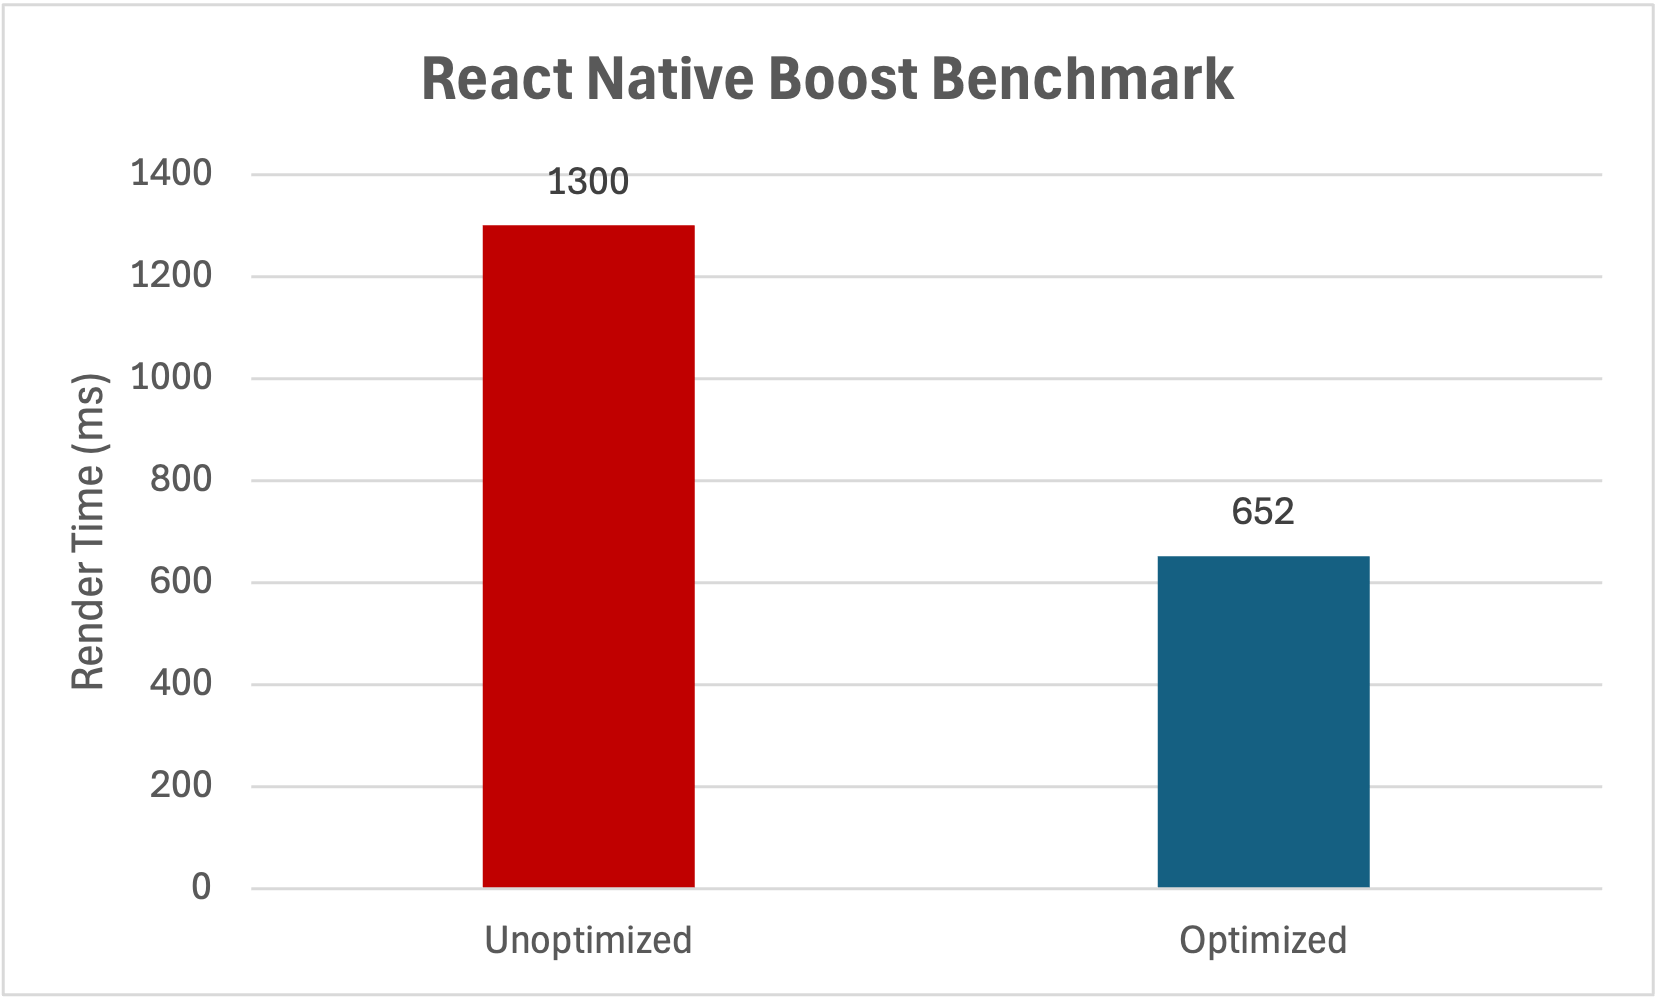
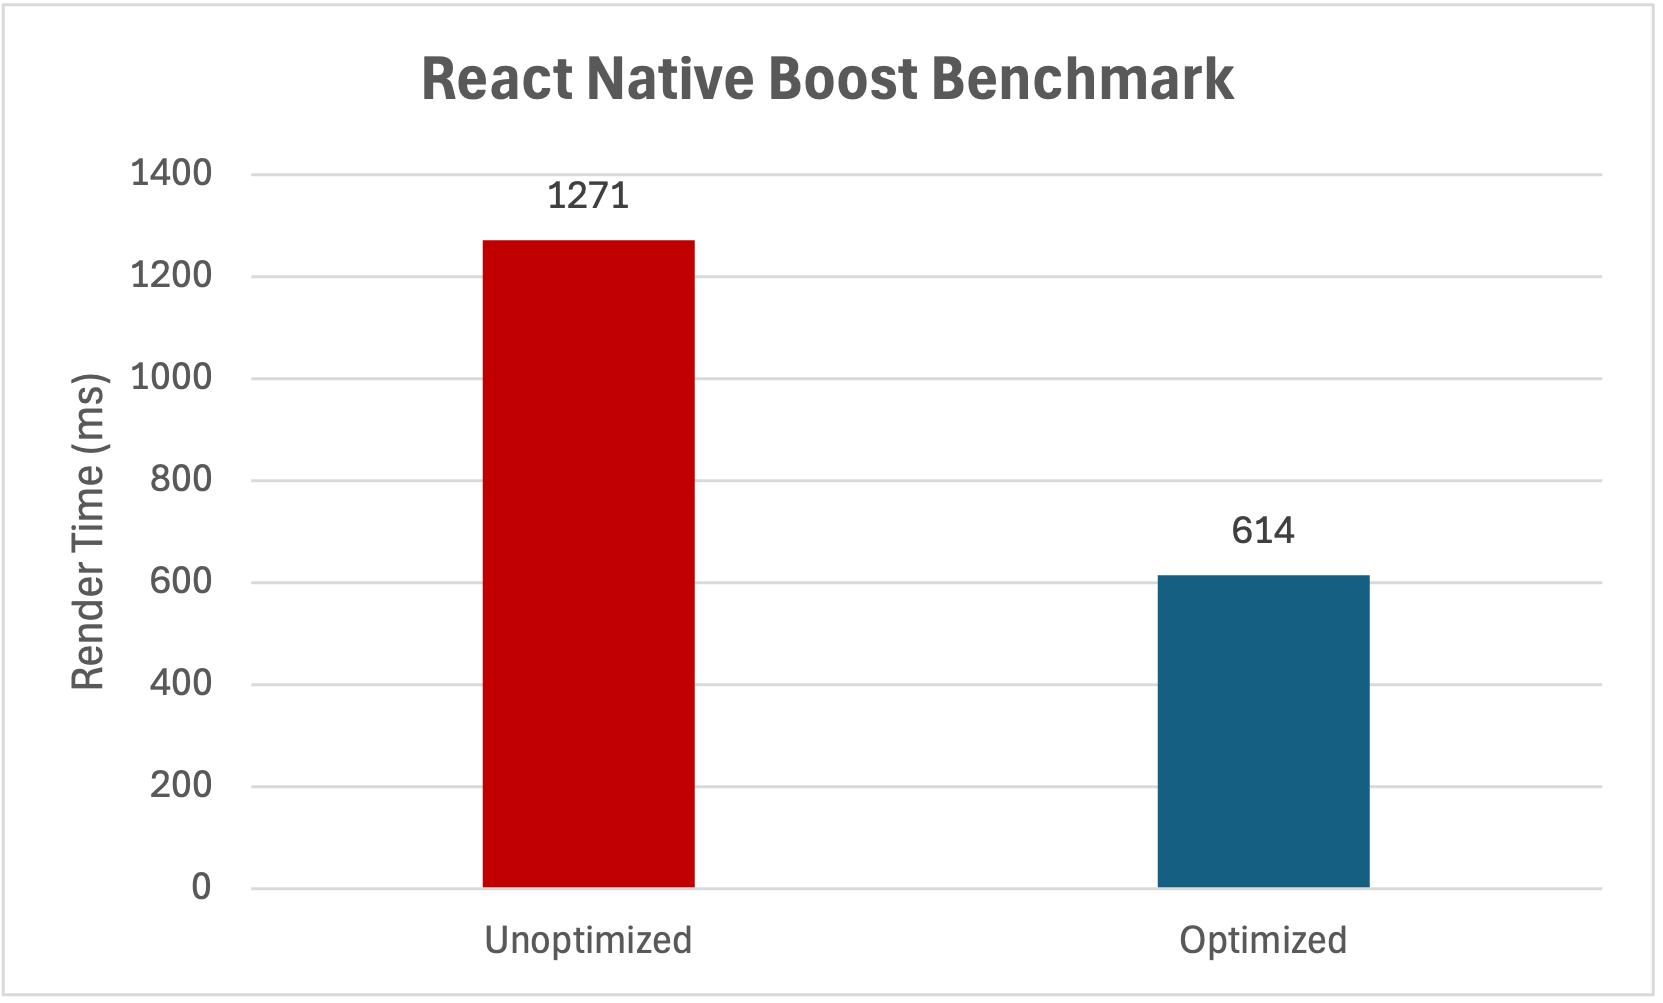
docs: added production benchmark

Changed region(s): [[0.6747, 0.4945, 0.828, 0.5872], [0.276, 0.1545, 0.4293, 0.2473]]

diff --git a/apps/docs/docs/introduction/benchmarks.md b/apps/docs/docs/introduction/benchmarks.md
@@ -8,6 +8,6 @@ We run benchmarks from an example app included in the repository to test the per
 
 ![Performance benchmarks](./img/benchmark.png)
 **1,000 Text components**: Render time of 1,000 Text components with and without React Native Boost.
-Measured in milliseconds on an iPhone 16 Pro in development mode and using New Architecture, lower is better.
+Measured in milliseconds on an iPhone 16 Pro running the example app in production mode and using New Architecture, lower is better.
 
 The more you use `Text` and `View` components, the more you benefit from using React Native Boost. Especially inside lists, which typically use a lot of such components in multiple, sometimes hundreds or thousands of list items, the performance improvements can be significant.

diff --git a/README.md b/README.md
@@ -26,7 +26,7 @@ The example app in the `apps/example` directory is a benchmark for the performan
   <img src="https://react-native-boost.oss.kuatsu.de/assets/images/benchmark-d60fdc78daeb03798d41c220bfed1f64.png" width="500" />
   <p>
     <b>1,000 Text components</b>: Render time of 1,000 Text components with and without React Native Boost.<br/>
-    Measured in milliseconds on an iPhone 16 Pro in development mode and using New Architecture, lower is better.
+    Measured in milliseconds on an iPhone 16 Pro running the example app in production mode and using New Architecture, lower is better.
   </p>
 </div>
 
